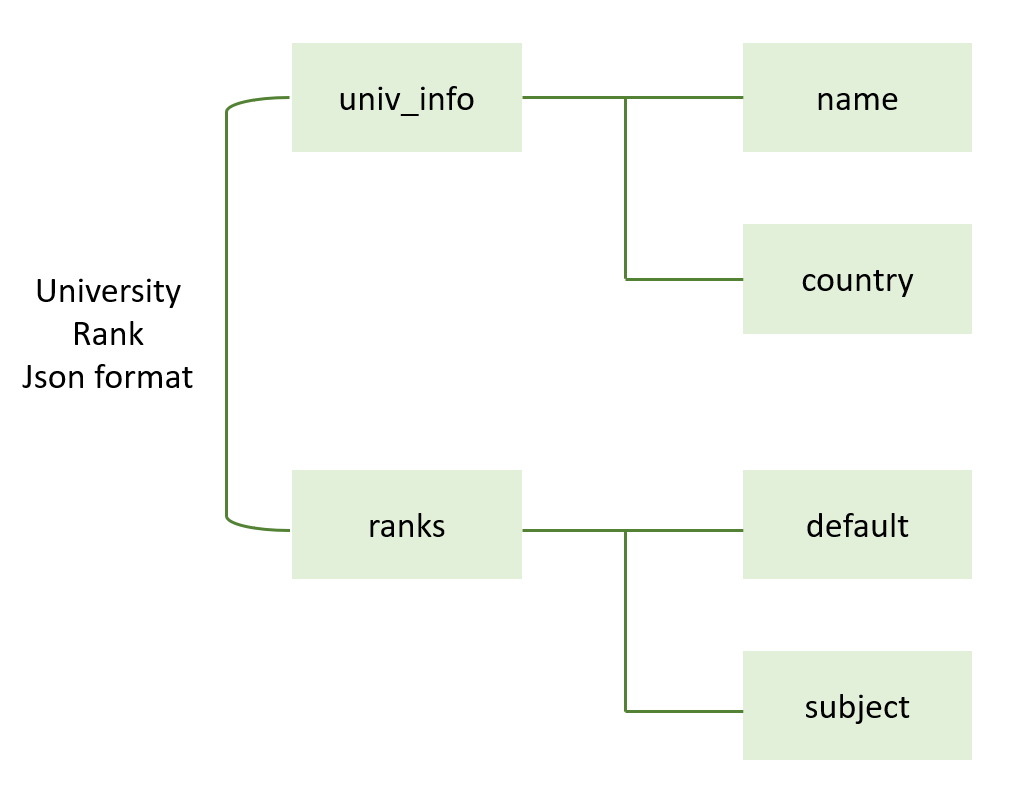
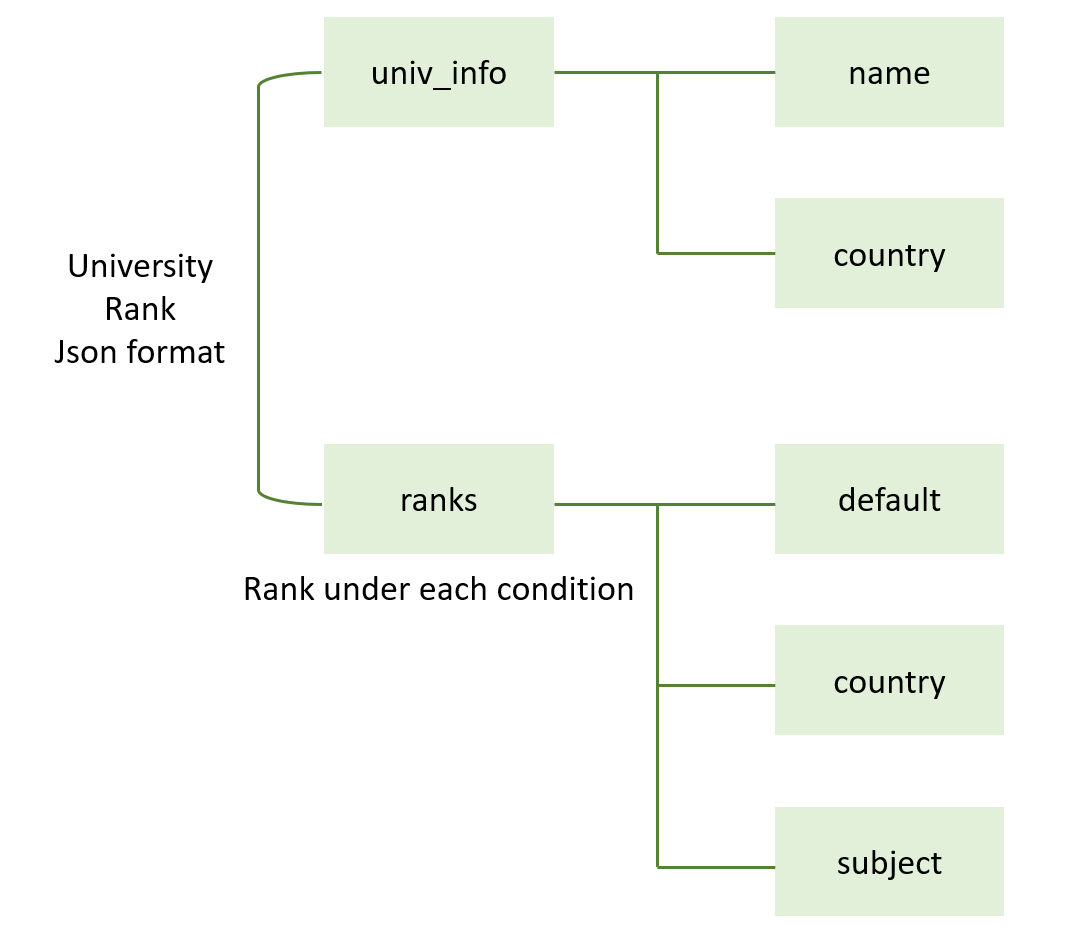
Add classification by its country

Changed region(s): [[0.0, 0.0, 0.9725, 0.9925]]

diff --git a/univ_rank_crawling.py b/univ_rank_crawling.py
@@ -167,6 +167,16 @@ def crawling(drive_dir = default_drive_dir,
     univ_rank_info["univ_info"] = univ_info
     rank_info["default"] = ranks
     
+    # Get rank under the specifc country
+    rank_by_country = {}
+    for name, country in zip(univ_info["name"], univ_info["country"]):
+        if country not in rank_by_country:
+            rank_by_country[country] = []
+        rank_by_country[country].append(univ_rank_map[name])
+
+    rank_info["country"] = rank_by_country
+    print("Classify rank by country")
+
     # Get other subject ranking
     subject_href = get_subject_href(driver, subject_url)
 

diff --git a/README.md b/README.md
@@ -13,7 +13,7 @@ This package is used for crawling of university rank. The current web page is ht
 In the json file, the main categories are **univ_info** and **ranks**.
 
 - `univ_info` : It includes name and country of each university.
-- `ranks` : It consists of rank information obtained under each subject condition. In the each rank, the indices of university corresponding to the **univ_info** list are stored. By using this index, we can get university information easily.
+- `ranks` : It consists of rank information obtained under each country and subject condition. In the each rank, the indices of university corresponding to the **univ_info** list are stored. By using this index, we can get university information easily.
  
 
 <p align="center">
